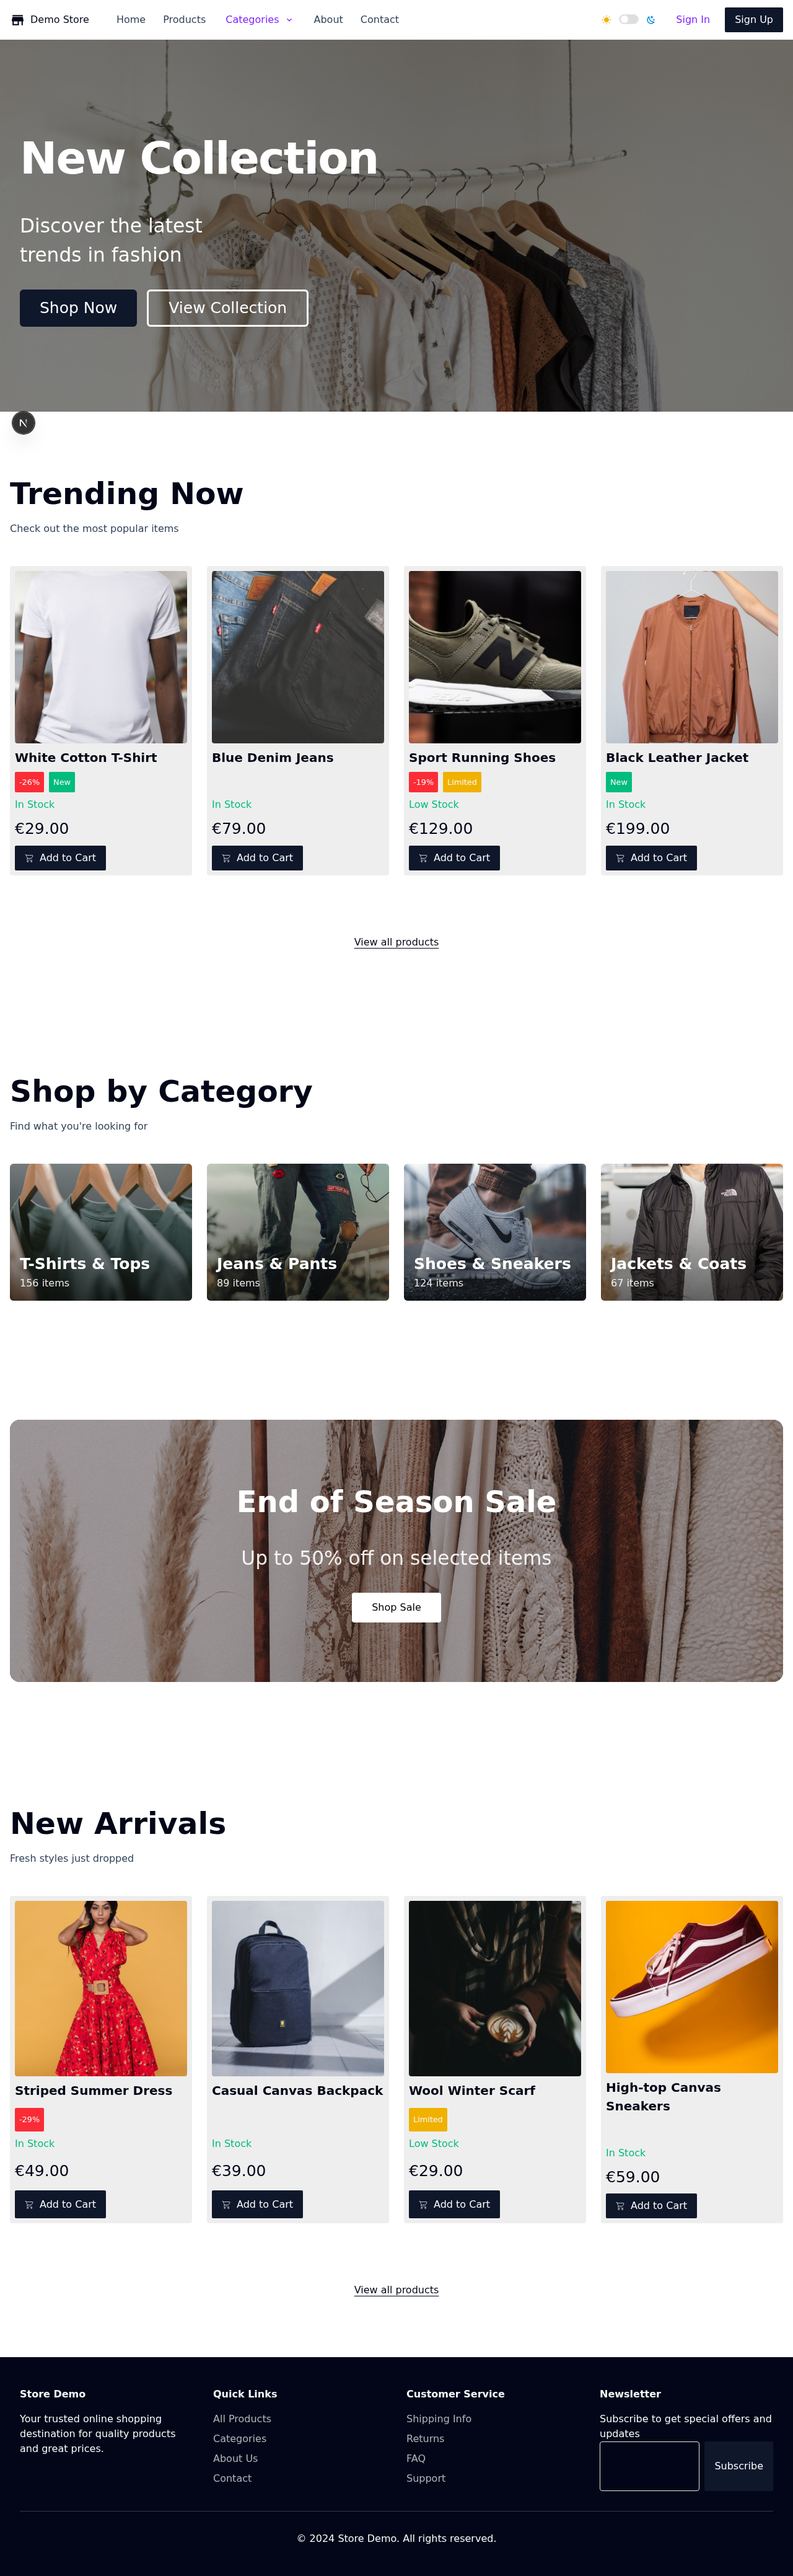
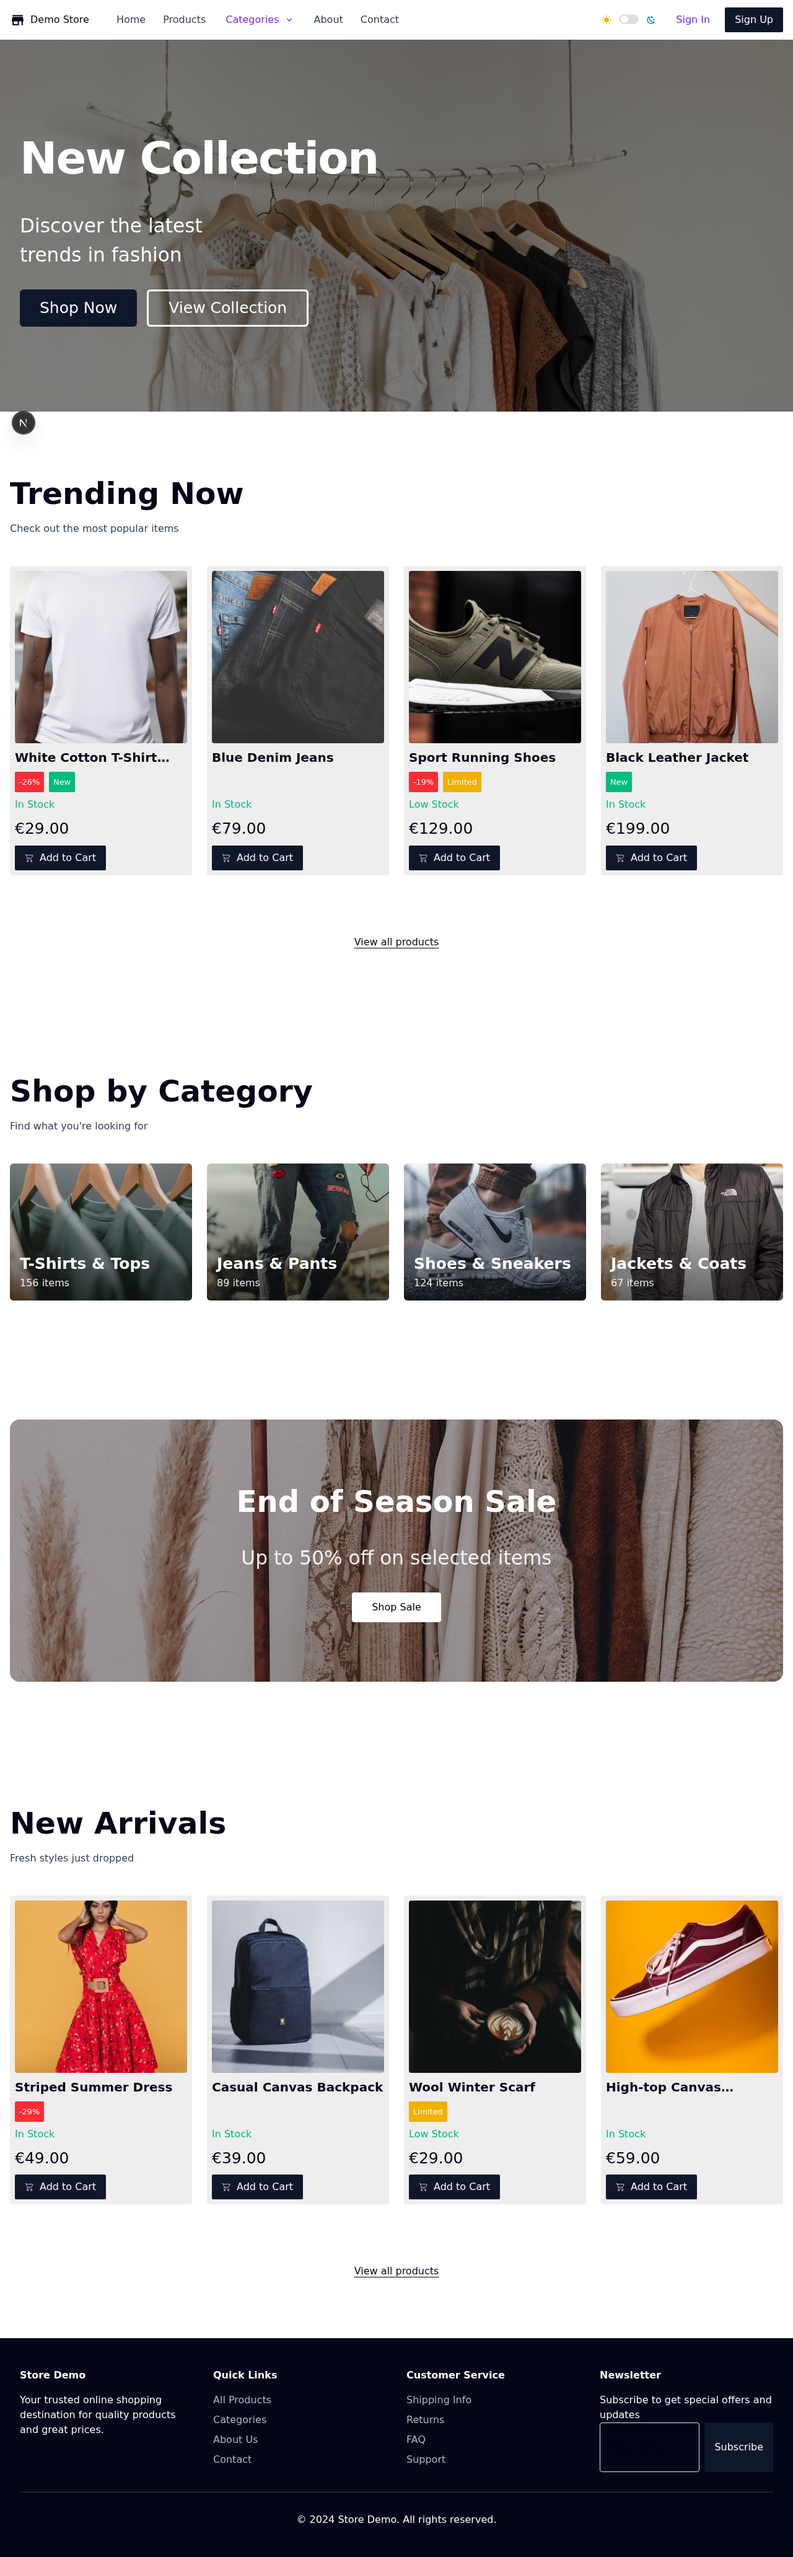
enhance CLAUDE.ms and fix ui bugs in /products page and its components

diff --git a/apps/frontend-demo/src/tokens/components/molecules/_product-filters.css b/apps/frontend-demo/src/tokens/components/molecules/_product-filters.css
@@ -3,6 +3,7 @@
   --color-product-filters-title: var(--color-fg-primary);
   --color-product-filters-dialog-title: var(--color-fg-primary);
   --color-product-filters-range-label: var(--color-fg-secondary);
+  --color-product-filters-range-value: var(--color-fg-primary);
   
   /* === PRODUCT FILTERS SPACING === */
   --spacing-product-filters-section-margin: var(--spacing-lg);
@@ -10,10 +11,12 @@
   --spacing-product-filters-item-gap: var(--spacing-xs);
   --spacing-product-filters-dialog-padding: var(--spacing-md);
   --spacing-product-filters-dialog-header-margin: var(--spacing-md);
+  --spacing-product-filters-range-margin: var(--spacing-xs);
   
   /* === PRODUCT FILTERS TYPOGRAPHY === */
   --text-product-filters-title: var(--text-lg);
   --font-product-filters-title: var(--font-semibold);
   --text-product-filters-dialog-title: var(--text-xl);
   --font-product-filters-dialog-title: var(--font-bold);
+  --font-product-filters-range-value: var(--font-medium);
 }

diff --git a/apps/frontend-demo/src/components/product-grid.tsx b/apps/frontend-demo/src/components/product-grid.tsx
@@ -59,6 +59,11 @@ export function ProductGrid({ products, pageSize = 9 }: ProductGridProps) {
                 ? 'Low Stock'
                 : 'Out of Stock'
 
+          // Add invisible placeholder badge if no badges exist
+          const displayBadges = badges.length > 0 
+            ? badges 
+            : [{ variant: 'success' as const, children: '\u00A0', className: 'invisible' }]
+
           return (
             <Link
               key={product.id}
@@ -69,7 +74,7 @@ export function ProductGrid({ products, pageSize = 9 }: ProductGridProps) {
                 name={product.title}
                 price={price?.calculated_price || '€0.00'}
                 imageUrl={product.thumbnail || ''}
-                badges={badges}
+                badges={displayBadges}
                 stockStatus={stockText}
                 hasDetailButton
                 detailButtonText="View Details"

diff --git a/apps/frontend-demo/src/tokens/components/molecules/_product-card.css b/apps/frontend-demo/src/tokens/components/molecules/_product-card.css
@@ -9,6 +9,10 @@
   --spacing-pc-col-layout: var(--spacing-2xs);
   --spacing-pc-box: var(--spacing-2xs);
   --spacing-pc-padding: var(--spacing-2xs);
+  
+  /* Card layout */
+  --height-pc-card: 100%;
+  --height-pc-badges-min: 1.5rem;
 
   --shadow-pc: var(--shadow-sm);
   --shadow-pc-featured: var(--shadow-md);
@@ -17,6 +21,7 @@
   --text-pc-name-size: var(--text-md);
   --font-weight-pc-name: var(--font-weight-bold);
   --leading-pc-name: var(--line-height-snug);
+  --height-pc-name-lines: 1;
 
   --color-pc-stock-fg: var(--color-success);
   --text-pc-stock-size: var(--text-sm);
@@ -92,4 +97,12 @@
 
 @utility order-buttons {
   order: 6;
+}
+
+/* === LINE CLAMP UTILITIES === */
+@utility line-clamp-pc-name {
+  overflow: hidden;
+  display: -webkit-box;
+  -webkit-box-orient: vertical;
+  -webkit-line-clamp: var(--height-pc-name-lines);
 }

diff --git a/apps/frontend-demo/src/components/product-filters.tsx b/apps/frontend-demo/src/components/product-filters.tsx
@@ -63,9 +63,10 @@ export function ProductFilters({ className }: ProductFiltersProps) {
           minStepsBetweenThumbs={10}
           formatValue={(value) => `€${value}`}
         />
-        <div className="mt-2 flex justify-between text-product-filters-range-label text-sm">
-          <span>€0</span>
-          <span>€300</span>
+        <div className="mt-product-filters-range-margin flex justify-between">
+          <span className="text-product-filters-range-value font-product-filters-range-value text-sm">€0</span>
+          <span className="text-product-filters-range-label text-sm">to</span>
+          <span className="text-product-filters-range-value font-product-filters-range-value text-sm">€200</span>
         </div>
       </div>
 

diff --git a/apps/frontend-demo/src/tokens/components/molecules/_pagination.css b/apps/frontend-demo/src/tokens/components/molecules/_pagination.css
@@ -4,15 +4,16 @@
 
 @theme static {
   /* === BASE COLOR MAPPING === */
-  --color-pagination: var(--color-surface);
+  --color-pagination: var(--color-base);
   --color-pagination-active: var(--color-primary);
-  --color-pagination-hover: oklch(
+  --color-pagination-hover: var(--color-base-light);
+  --color-pagination-hover-active: oklch(
     from var(--color-pagination-active) calc(l + var(--state-hover)) c h
   );
 
   /* Text colors */
   --color-pagination-fg: var(--color-fg-primary);
-  --color-pagination-fg-active: var(--color-pagination-fg);
+  --color-pagination-fg-active: var(--color-base);
   --color-pagination-outlined-fg-active: var(--color-pagination-active);
   --color-pagination-fg-disabled: --alpha(
     var(--color-pagination-fg) /

diff --git a/apps/frontend-demo/src/data/mock-products.ts b/apps/frontend-demo/src/data/mock-products.ts
@@ -5,7 +5,7 @@ import type { Product } from '../types/product'
 export const mockProducts: Product[] = [
   {
     id: 'prod_01',
-    title: 'White Cotton T-Shirt',
+    title: 'White Cotton T-Shirt with Extra Long Name That Should Be Truncated',
     handle: 'white-cotton-t-shirt',
     description: 'Comfortable cotton t-shirt perfect for everyday wear',
     thumbnail:

diff --git a/apps/frontend-demo/src/tokens/components/molecules/_range-slider.css b/apps/frontend-demo/src/tokens/components/molecules/_range-slider.css
@@ -58,6 +58,8 @@
   /* === TYPOGRAPHY === */
   --text-slider-value-size: var(--text-sm);
   --height-marker-vertical: var(--text-md);
+  --color-slider-value-text: var(--color-fg-primary);
+  --font-slider-value-weight: var(--font-semibold);
 
   /* === BORDER & RADIUS === */
   --border-width-slider: var(--border-width-sm);

diff --git a/apps/frontend-demo/CLAUDE.md b/apps/frontend-demo/CLAUDE.md
@@ -30,14 +30,17 @@ src/
 
 ### Development Commands
 ```bash
-# Start development server
-bunx nx run frontend-demo:dev
+# Run commands from the frontend-demo directory
+cd apps/frontend-demo
 
-# Build the application
-bunx nx run frontend-demo:build
+# Start development server
+pnpm dev
+
+# Build the application  
+pnpm build
 
 # Run type checking
-bunx nx run frontend-demo:typecheck
+npx tsc --noEmit
 
 # Capture screenshots of all pages
 node scripts/auto-screenshot.js
@@ -45,6 +48,26 @@ node scripts/auto-screenshot.js
 # Watch for changes and auto-capture screenshots
 ./scripts/watch-and-screenshot.sh
 ```
+
+### Netlify Deployment
+
+```bash
+# Deploy to Netlify (production)
+netlify deploy --prod
+
+# Deploy draft for testing
+netlify deploy
+```
+
+**Important Deployment Notes:**
+- Build must complete successfully without errors
+- After deployment, **always verify** the site works correctly
+- Common issues to check:
+  - "Page not found" errors - usually means incorrect build configuration
+  - Missing assets - check that `output: 'export'` is set in `next.config.js`
+  - Routing issues - ensure `trailingSlash: true` is configured
+- Test all pages including dynamic routes (e.g., `/products/[handle]`)
+- Verify both draft and production deployments
 
 ### Code Standards
 - Use TypeScript for all new files
@@ -166,6 +189,17 @@ import { Button } from '@/components/ui/button' // ❌
 5. **Consistent Design**: Maintain unified design language across all pages
 6. **Conventional Commits**: Use conventional commit format for all commits
 
+### Atomic Design Architecture
+This project follows the **Atomic Design** methodology for organizing UI components:
+
+- **Atoms**: Basic building blocks (buttons, inputs, labels, badges)
+- **Molecules**: Simple combinations of atoms (form fields, search bars, cards)
+- **Organisms**: Complex UI sections (headers, footers, product grids)
+- **Templates**: Page layouts without real content
+- **Pages**: Templates with real content
+
+Learn more: https://atomicdesign.bradfrost.com/chapter-2/
+
 ### Component Development Pattern
 When creating reusable components in frontend-demo:
 
@@ -227,21 +261,81 @@ When creating reusable components in frontend-demo:
    }
    ```
 
-3. **File Organization**:
+3. **CSS Token Guidelines**:
+   **ALLOWED token prefixes:**
+   - `--color-`: All color values
+   - `--text-`: Font sizes (must map to Tailwind text sizes)
+   - `--font-weight-`: Font weights (100-900 or semantic)
+   - `--border-`: Border width, style, color
+   - `--opacity-`: Transparency values (0-100%)
+   - `--spacing-`: Padding, margin, gap, AND width/height values that need max/min variants
+   - `--width-`: Width values (only when you don't need max/min variants)
+   - `--height-`: Height values (only when you don't need max/min variants)
+   - `--gap-`: Flex/grid gaps
+   - `--padding-`: Padding values
+   - `--margin-`: Margin values
+   - `--radius-`: Border radius
+   - `--shadow-`: Box shadows
+
+   **IMPORTANT**: Use `--spacing-` prefix for any width/height values that need max-w/min-w/max-h/min-h utilities!
+
+   **FORBIDDEN patterns:**
+   - ❌ `--grid-cols-product-grid-base` (too specific)
+   - ❌ `--layout-*` (use specific properties)
+   - ❌ `--component-specific-anything` (be generic)
+
+4. **File Organization**:
    - **atoms/**: Basic UI elements from @libs/ui only
    - **molecules/**: Composite components (navigation, etc.)
    - **organisms/**: Large sections (header, footer)
    - Always add CSS import to `components.css`
 
-4. **Naming Conventions**:
-   - CSS variables: `--[type]-[component]-[element]-[modifier]`
-   - Slots: Descriptive names (root, container, list, item, etc.)
-   - Use `base-reverse` for inverted color schemes
-   - Responsive values: Use suffix for breakpoints (`-sm`, `-md`, `-lg`, `-xl`)
-     - Example: `--text-hero-title-size`, `--text-hero-title-size-md`
-     - Example: `--spacing-hero-container-x`, `--spacing-hero-container-x-lg`
+5. **CSS Token Naming Convention**:
+   
+   **Pattern**: `--[type]-[component]-[element]-[modifier]-[purpose]-[state]`
+   **Slots**:  `Descriptive names (root, container, list, item, etc.)`
+   
+   **Rules**:
+   - **Type** (required): `color`, `spacing`, `text`, `font`, `border`, `radius`, `shadow`, `opacity`
+   - **Component** (optional): Use abbreviations if readable (e.g., `btn`, `pc`, `nav`)
+   - **Element** (optional): Specific part like `title`, `container`, `button`
+   - **Modifier** (optional): Size (`sm`, `md`, `lg`) or variant (`primary`, `secondary`)
+   - **Purpose** (for colors): `fg` (text/icons), `bg` (background), `border`, `ring`, `shadow`
+   - **State** (optional): `hover`, `active`, `disabled`, `focus`
+   
+   **Size naming**:
+   - Single size: use `-size` suffix (e.g., `--text-hero-title-size`)
+   - Multiple sizes: use size directly (e.g., `--text-hero-title-sm`, NOT `--text-hero-title-size-sm`)
+   
+   **Common abbreviations** (use if readable):
+   - `btn` = button
+   - `pc` = product-card
+   - `nav` = navigation
+   - `acc` = accordion
+   - `cb` = checkbox
+   
+   **Examples**:
+   ```css
+   /* Colors with purpose */
+   --color-btn-primary          /* default = background */
+   --color-btn-primary-fg       /* foreground (text/icons) */
+   --color-btn-primary-hover    /* hover state background */
+   --color-pc-stock-fg         /* product card stock text */
+   
+   /* Spacing */
+   --spacing-pc-padding
+   --spacing-btn-sm
+   
+   /* Typography */
+   --text-hero-title-size      /* single size */
+   --text-pc-name-sm          /* multiple sizes */
+   
+   /* Responsive */
+   --text-hero-title-md       /* medium breakpoint */
+   --spacing-container-x-lg   /* large breakpoint */
+   ```
 
-5. **Example Implementation** (Footer):
+6. **Example Implementation** (Footer):
    ```typescript
    // footer.tsx
    const footerVariants = tv({
@@ -256,6 +350,7 @@ When creating reusable components in frontend-demo:
    /* _footer.css */
    --color-footer-bg: var(--color-base-reverse);
    --spacing-footer-max-w: 80rem;
+   --spacing-footer-container-x: var(--spacing-md);
    ```
 
 ### Page-Specific Component Mapping
@@ -311,10 +406,7 @@ When creating reusable components in frontend-demo:
 2. **After Every Code Change**:
    ```bash
    # Run TypeScript check
-   cd apps/frontend-demo && npx tsc --noEmit
-   
-   # Or use Nx command
-   bunx nx run frontend-demo:typecheck
+   npx tsc --noEmit
    ```
 
 3. **Common Component Props Patterns**:
